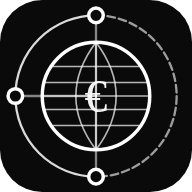
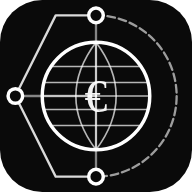
Switch left-side node connection to Σ shape
Replace the left semicircle arc that connected top → left → bottom
with four straight segments forming a sigma:
  top node — horizontal bar — corner — diagonal — left node —
  diagonal — corner — horizontal bar — bottom node

The left node sits at the apex of the Σ. The dashed right arc, globe,
€ glyph, and node circles are unchanged.

Regenerated all PNG assets (favicon, apple-touch-icon, PWA icons).

Changed region(s): [[0.0625, 0.5312, 0.4688, 0.9375], [0.0625, 0.0625, 0.4688, 0.4688]]

diff --git a/lib/wire-pay-icon.ts b/lib/wire-pay-icon.ts
@@ -82,15 +82,15 @@ export function buildWirePayIconSvg({
     )
     .join("");
 
-  const topToLeft = `<path d="M ${num(topPt.x)} ${num(topPt.y)} A ${num(
-    orbitR,
-  )} ${num(orbitR)} 0 0 0 ${num(leftPt.x)} ${num(
-    leftPt.y,
-  )}" stroke-width="${num(thinStroke)}" opacity="0.85"/>`;
-
-  const leftToBot = `<path d="M ${num(leftPt.x)} ${num(leftPt.y)} A ${num(
-    orbitR,
-  )} ${num(orbitR)} 0 0 0 ${num(botPt.x)} ${num(
+  // Σ-shape on the left connecting top → left → bottom.
+  // 4 segments: top horizontal bar, upper diagonal, lower diagonal, bottom
+  // horizontal bar. The left node sits at the tip/apex of the Σ.
+  const sigmaCornerX = r - orbitR * 0.5;
+  const sigmaPath = `<path d="M ${num(topPt.x)} ${num(topPt.y)} L ${num(
+    sigmaCornerX,
+  )} ${num(topPt.y)} L ${num(leftPt.x)} ${num(leftPt.y)} L ${num(
+    sigmaCornerX,
+  )} ${num(botPt.y)} L ${num(botPt.x)} ${num(
     botPt.y,
   )}" stroke-width="${num(thinStroke)}" opacity="0.85"/>`;
 
@@ -113,8 +113,7 @@ export function buildWirePayIconSvg({
     bgRadius,
   )}" fill="#0a0a0a"/>
   <g stroke="white" fill="none" stroke-linecap="round" stroke-linejoin="round">
-    ${topToLeft}
-    ${leftToBot}
+    ${sigmaPath}
     ${topToBotRight}
     ${wireLines}
     <circle cx="${num(r)}" cy="${num(r)}" r="${num(
